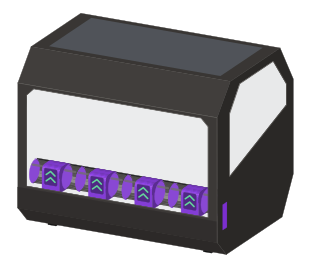
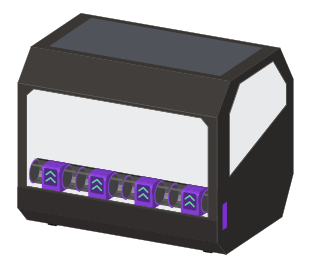
fix(unit-art): fill both flange faces on Quattro Box rollers (prestonbrown/helixscreen#2068)

diff --git a/scripts/unit_art/kit.py b/scripts/unit_art/kit.py
@@ -198,14 +198,16 @@ def roller(sc, x0, x1, y, z, r, color, flange, flange_k=1.18, flange_w=0.016, le
     """A drum along x, flanged at its right end and, unless told not to, its left.
 
     sheen is the colour of a highlight along the drum's lit shoulder, for a colour too dark
-    to show its curve by shading alone. end_face fills the right end inside its flange,
-    leaving the flange as a thin rim.
+    to show its curve by shading alone. end_face fills each flange inside its edge,
+    leaving a thin rim.
     """
     ring = circle_yz(y, z, r)
     edge = circle_yz(y, z, r * flange_k)
     if left_flange:
         sc.extrude_x(edge, x0 - flange_w, x0, flange, 1.0, front=True)
         sc.poly([(x0, a, b) for a, b in edge], shift(flange, 18))
+        if end_face:
+            sc.poly([(x0 + 0.0005, a, b) for a, b in circle_yz(y, z, r * 0.92)], end_face)
     sc.extrude_x(ring, x0, x1, color, 1.0, front=True)
     if sheen:
         sc.line([(x0 + r * 0.1, y - r * 0.6, z + r * 0.8), (x1 - r * 0.1, y - r * 0.6, z + r * 0.8)], sheen, r * 0.2, 0.75)
